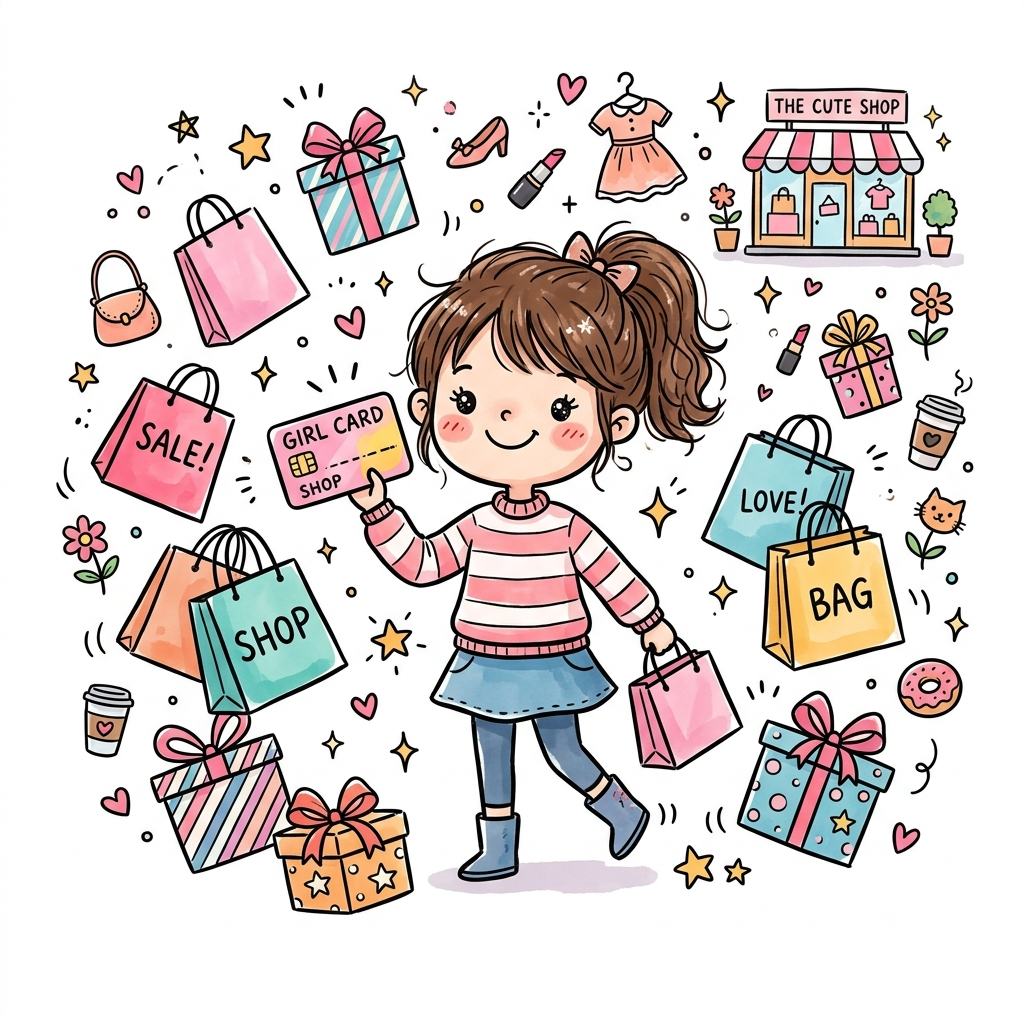
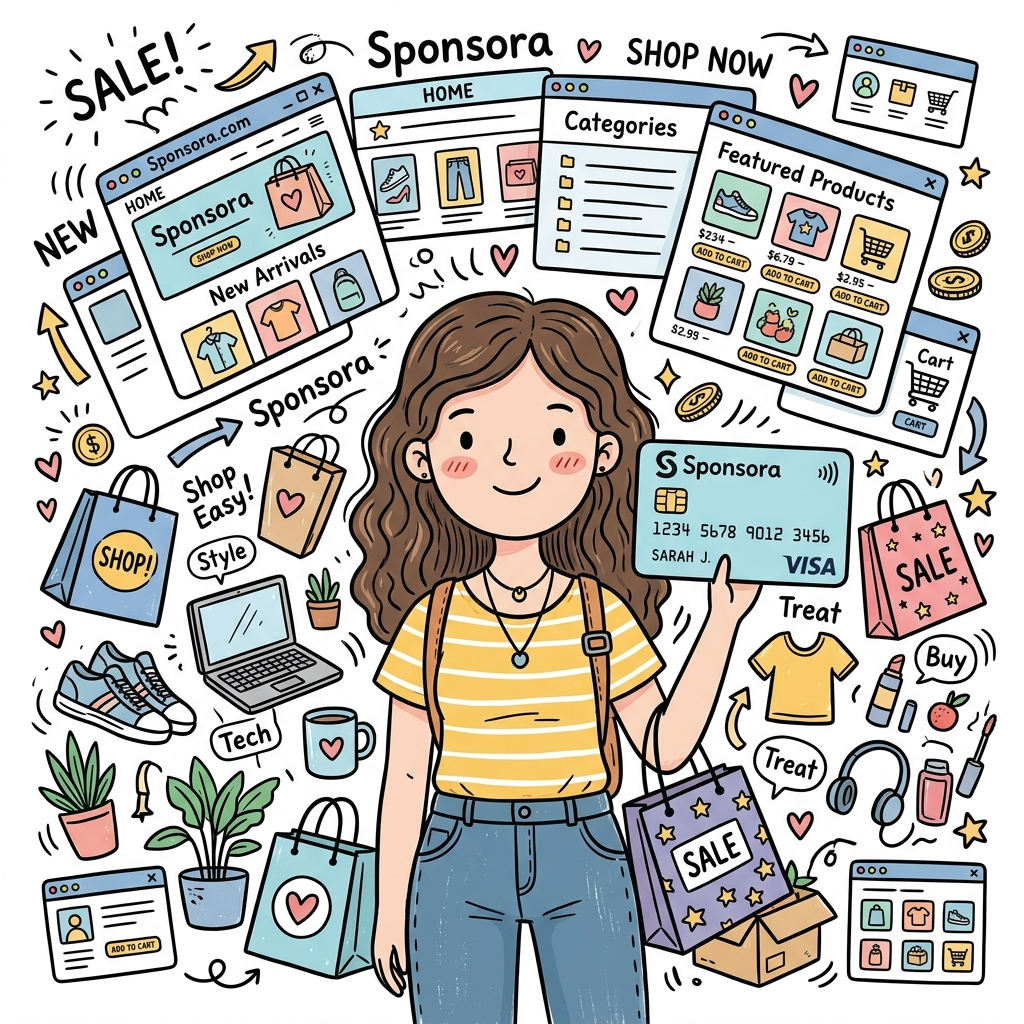
Update subscription popup and add mobile auto-scroll

diff --git a/main-app/app/subscriptions/page.tsx b/main-app/app/subscriptions/page.tsx
@@ -19,7 +19,7 @@ function PopupModal() {
   if (!showPopup) return null;
 
   return (
-    <div className="fixed inset-0 z-50 flex items-center justify-center p-4 bg-slate-900/60 backdrop-blur-sm animate-in fade-in duration-300">
+    <div id="subscription-popup" className="fixed inset-0 z-50 flex items-center justify-center p-4 bg-slate-900/60 backdrop-blur-sm animate-in fade-in duration-300">
       <div className="relative bg-white dark:bg-slate-800 rounded-3xl p-6 md:p-8 max-w-sm w-full shadow-2xl flex flex-col items-center text-center animate-in zoom-in-95 duration-300">
         {/* Close Button */}
         <button 
@@ -36,10 +36,10 @@ function PopupModal() {
 
         {/* Text */}
         <h3 className="text-xl font-black text-pink-600 dark:text-pink-400 mb-2">
-          Ready to grow? ✨
+          Unlock Your Store's Full Potential!
         </h3>
         <p className="text-sm font-medium text-slate-600 dark:text-slate-300 mb-8 leading-relaxed">
-          Please buy a subscription plan for our service to continue adding your products and reaching more customers!
+          Please Buy a Subscription plan to continue adding products and gets more Customers!
         </p>
 
         {/* CTA */}
@@ -56,6 +56,61 @@ function PopupModal() {
 
 export default function SubscriptionsPage() {
   const [selectedPlan, setSelectedPlan] = useState<number | null>(null);
+
+  useEffect(() => {
+    // 1. Set Default Plan
+    if (window.innerWidth < 768) {
+      setSelectedPlan(1); // Startup package on mobile
+    } else {
+      setSelectedPlan(2); // Growth Pro on laptop
+    }
+
+    // 2. Mobile Auto-Scroll Logic
+    if (window.innerWidth >= 768) return;
+
+    let isInteracting = false;
+    let animationId: number;
+
+    const stopScroll = () => {
+      isInteracting = true;
+    };
+
+    window.addEventListener('touchstart', stopScroll, { passive: true });
+    window.addEventListener('wheel', stopScroll, { passive: true });
+    window.addEventListener('touchmove', stopScroll, { passive: true });
+
+    const scrollFn = () => {
+      if (isInteracting) return;
+      
+      const isPopupOpen = document.getElementById('subscription-popup');
+      if (!isPopupOpen) {
+        window.scrollBy(0, 0.5);
+        
+        // Check if reached bottom
+        if (window.innerHeight + window.scrollY >= document.body.offsetHeight - 2) {
+          window.scrollTo(0, 0); // Jump back to top
+          stopScroll(); // Stop auto-scrolling
+          return;
+        }
+      }
+      animationId = requestAnimationFrame(scrollFn);
+    };
+
+    // Start auto scroll after a short delay
+    setTimeout(() => {
+      if (!isInteracting) {
+        animationId = requestAnimationFrame(scrollFn);
+      }
+    }, 800);
+
+    return () => {
+      stopScroll();
+      if (animationId) cancelAnimationFrame(animationId);
+      window.removeEventListener('touchstart', stopScroll);
+      window.removeEventListener('wheel', stopScroll);
+      window.removeEventListener('touchmove', stopScroll);
+    };
+  }, []);
 
   return (
     <div className="flex flex-col min-h-screen bg-transparent">
